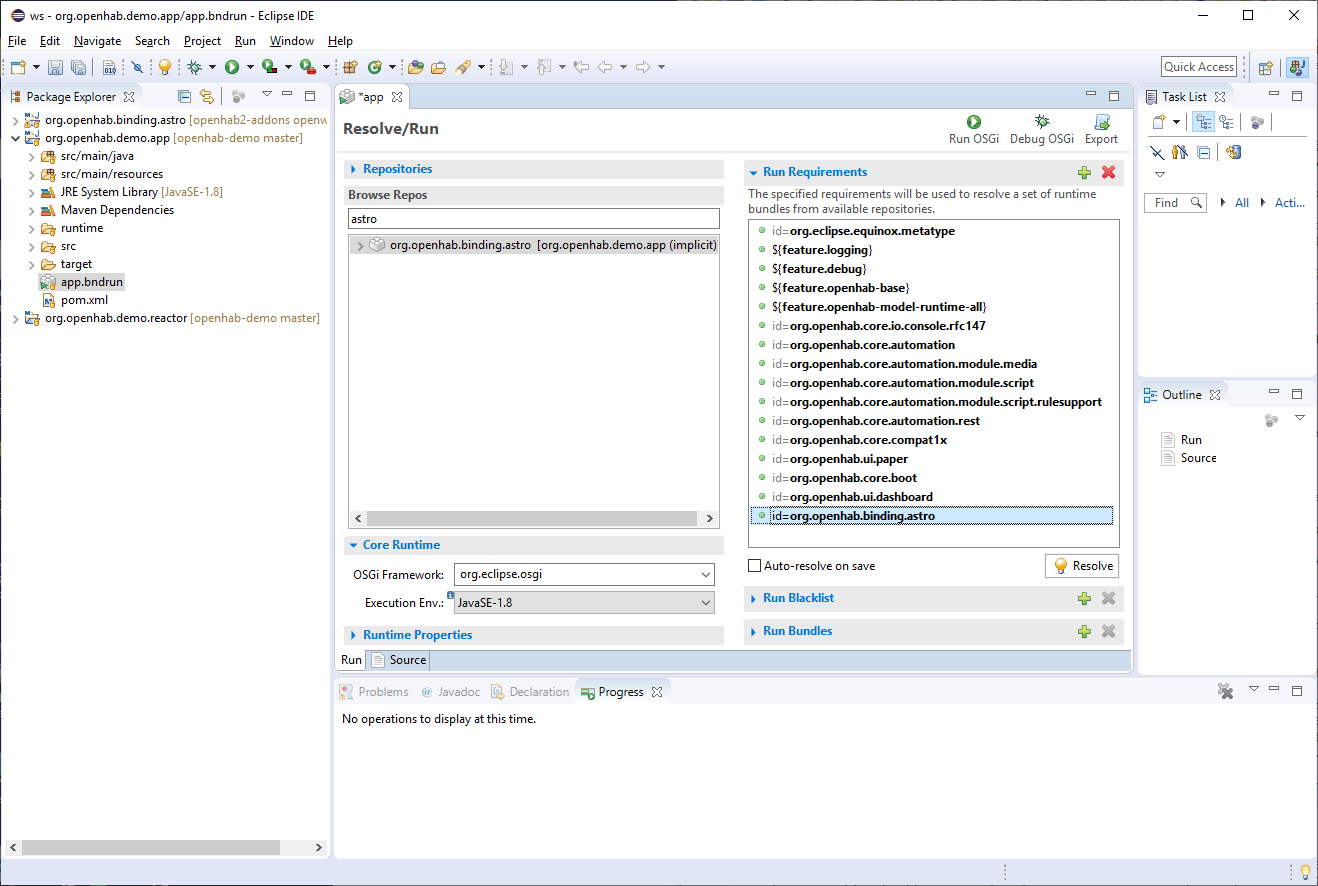
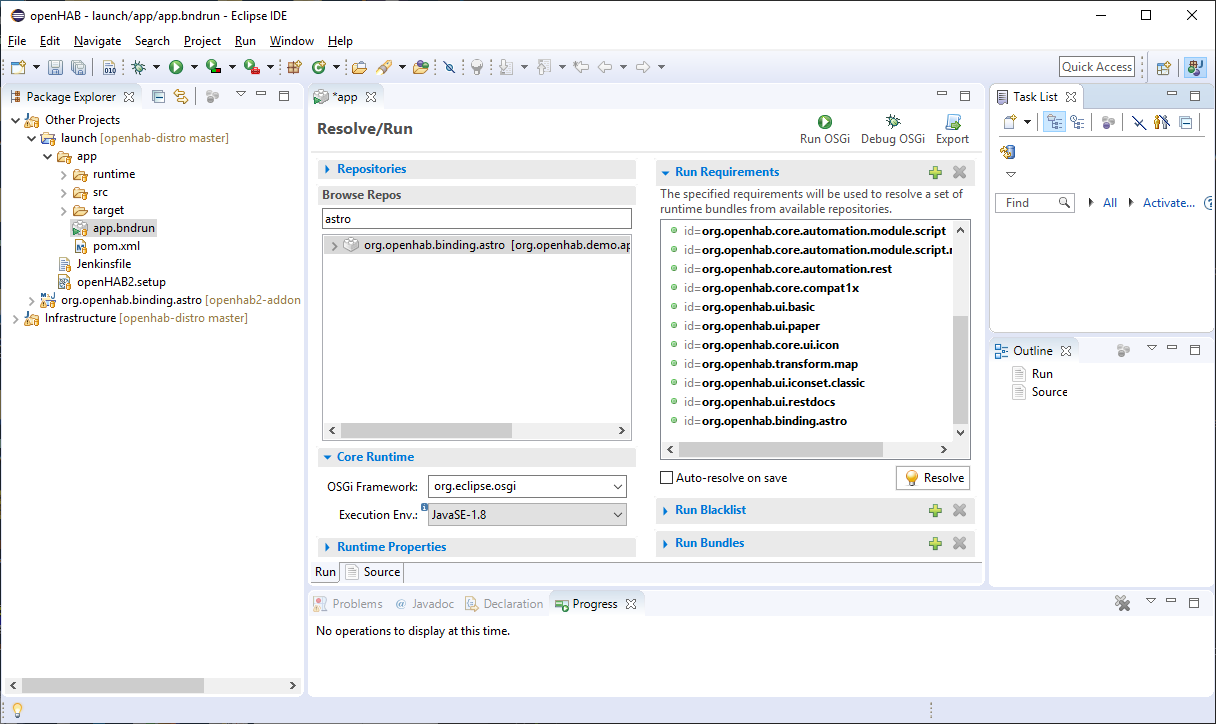
new instructions using Eclipse Installer and openhab-distro

diff --git a/developers/ide/eclipse.md b/developers/ide/eclipse.md
@@ -14,38 +14,53 @@ For now follow these steps:
 
 ### Eclipse IDE Setup
 
-1. Install the latest "Eclipse IDE for Java Developers", the installer [can be downloaded from the Eclipse web site](https://wiki.eclipse.org/Eclipse_Installer)
-1. Launch Eclipse and install Bndtools from the Eclipse Marketplace: Help -> Eclipse Marketplace -> Find "bndtools" -> Install:
+This guide focuses on Add-on (binding) development.
 
-   ![bndtools from marketplace](images/ide_setup_eclipse_market.png)
-   (Accept License and the Security warning about the software is not signed)
+1. Download the "Eclipse Installer": [can be downloaded from the Eclipse web site](https://wiki.eclipse.org/Eclipse_Installer)
+1. Launch the Installer and select `Advanced Mode...` on the menu (3 bars) on the right, then select `Eclipse IDE for Java Developers` then `Next>`
+1. Select `Github Projects > openHAB > openHAB Development`. 
+    
+    Do *NOT* select other projects for now.
 
-   Restart Eclipse to activate Bndtools.
-1. Using `git` from the command line, checkout the openHAB demo application: `git clone --depth=1 https://github.com/maggu2810/openhab-demo`
-1. Import the demo application from Eclipse: File -> Import -> Maven -> Existing Maven Projects -> select the root directory of the demo application project -> Finish.
+   ![select projects](images/ide_setup_eclipse_projects.png)
 
-   ![demo import](images/ide_setup_eclipse_import_demo.png)
+1. Click `Next >`, `Finish` and then accept licences, "Unsigned Content" for Bndtools,  and Eclipse Foundation certificates when requested to complete IDE installation. 
 
-   Leave Eclipse open and wait for the downloads and build to finish (about 5-10 minutes).
-1. Using git from the command line, checkout the `openhab2-addons` repository: `git clone --depth=1 https://github.com/openhab/openhab2-addons`
-1. Add the binding that you want to develop (in this guide we use `astro` as an example) to the Eclipse workspace: File -> Import -> Maven -> Existing maven projects -> select the root directory of the binding -> Finish.
+    When the installation is finished the IDE is launched automatically.
 
-   Leave Eclipse open and wait for the downloads and build to finish.
+1. For the first launch leave the Eclipse IDE open until all Startup tasks / Download sources / Builds are completed (click bottom right button in the IDE for Progress). 
 
-   **WARNING**: if the build continues indefinitely, this a bug in the setup that is already being addressed. Meanwhile, to stop the loop deselect from Eclipse -> Project ->  Build Automatically. Remember to do Project -> Build Project after changes in the binding project
+    **It may take 10-15mins depending on internet connection and your computer speed.
+    So go and grab a good cup of coffee and be patient until is finished**
 
-   *NOTE*: You do not need to add all projects to the workspace, just the binding project you want to work on.
-1. In Eclipse Package Explorer: look for `app.bndrun` in the `org.openhab.demo.app` project.
-   Double click to open `app.bndrun` (takes a few seconds)
-1. Under Browse Repos search for your binding (`astro`) and add it to the "Run Requirements" list using drag&drop from the "Browse Repos" list:
-    ![Bndtools](images/ide_setup_eclipse_bndtools.png)
-1. Click "Resolve": a window with the list of resolved bundles will be shown.
+1. Close Eclipse. Move to the `git` folder under the chosen IDE installation directory (the `openhab-distro` folder is already there).
+
+1. Using the `git` command from the command line, checkout the openhab2-addons repository: `git clone --depth=1 https://github.com/openhab/openhab2-addons`
+
+1. Open Eclipse. Add the binding that you want to develop (in this guide we use `astro` as an example) to the Eclipse workspace: `File > Import > Maven > Existing maven projects >` select the root directory of the binding under `git\openahb2-addons` then `Finish`.
+
+    Leave Eclipse open and wait for the downloads and builds to finish.
+
+    **WARNING**: if the build continues indefinitely and starts looping, this a bug in bndtools that has already been identified. To stop the loop deselect from `Eclipse > Project > Build Automatically`. 
+    Remember to do `Project > Build Project` after changes in the binding project.
+
+    NOTE: You do not need to add all projects to the workspace, just the binding project you want to work on.
+
+1. In the Eclipse Package Explorer in `Other Projects > launch > app` project folder look for `app.bndrun` file.
+
+   Double click to open `app.bndrun` file (takes a few seconds)
+
+1. Under Browse Repos search for the binding you want to modify (`astro`) and add it to the "Run Requirements" list using drag&drop from the "Browse Repos" list:
+    ![Bndtools](images/ide_setup_eclipse_bndtools.png)   
+
+1. Save and click "Resolve": a window with the list of resolved bundles will be shown.
     Click Finish and save the file.
 
-    Now the IDE is ready to start openHAB with a minimum set of the openHAB core bindings, PaperUI and the selected binding
+Now the IDE is ready to start openHAB with a minimum set of the openHAB core bindings, PaperUI and the selected binding.
+
 1. Start openHAB from the IDE clicking "Run OSGi" or "Debug OSGi" (upper right of the `app.bndrun` dialog).
    You can check openHAB is running going with your browser to: http://localhost:8080/paperui/
-1. Check the chosen binding is active in PaperUI -> Configuration -> Bindings
+1. Check the chosen binding is active in `PaperUI > Configuration > Bindings`
 
 ## Develop a NEW binding with the IDE
 
@@ -67,8 +82,8 @@ and add your new binding to the list (adapt the artifactid to your binding name!
         <version>${project.version}</version>
     </dependency>
     ```
-1. From the `openhab2-addons` directory run: ` mvn -DskipChecks -DskipTests clean install` to rebuild the list of bindings in the BOM (Bill Of Material) and make your new binding visible from the demo.app project
-1. Now open Eclipse and follow from previous step 6. to import and run/debug your new binding in the Eclipse IDE
+1. From the `openhab2-addons` directory run: ` mvn -DskipChecks -DskipTests clean install` to rebuild the list of bindings in the BOM (Bill Of Material) and make your new binding visible from the IDE launch configuration
+1. Open Eclipse and follow from previous step 8. to import and run/debug your new binding in the Eclipse IDE
 
 Now you can start developing your new binding.
 
